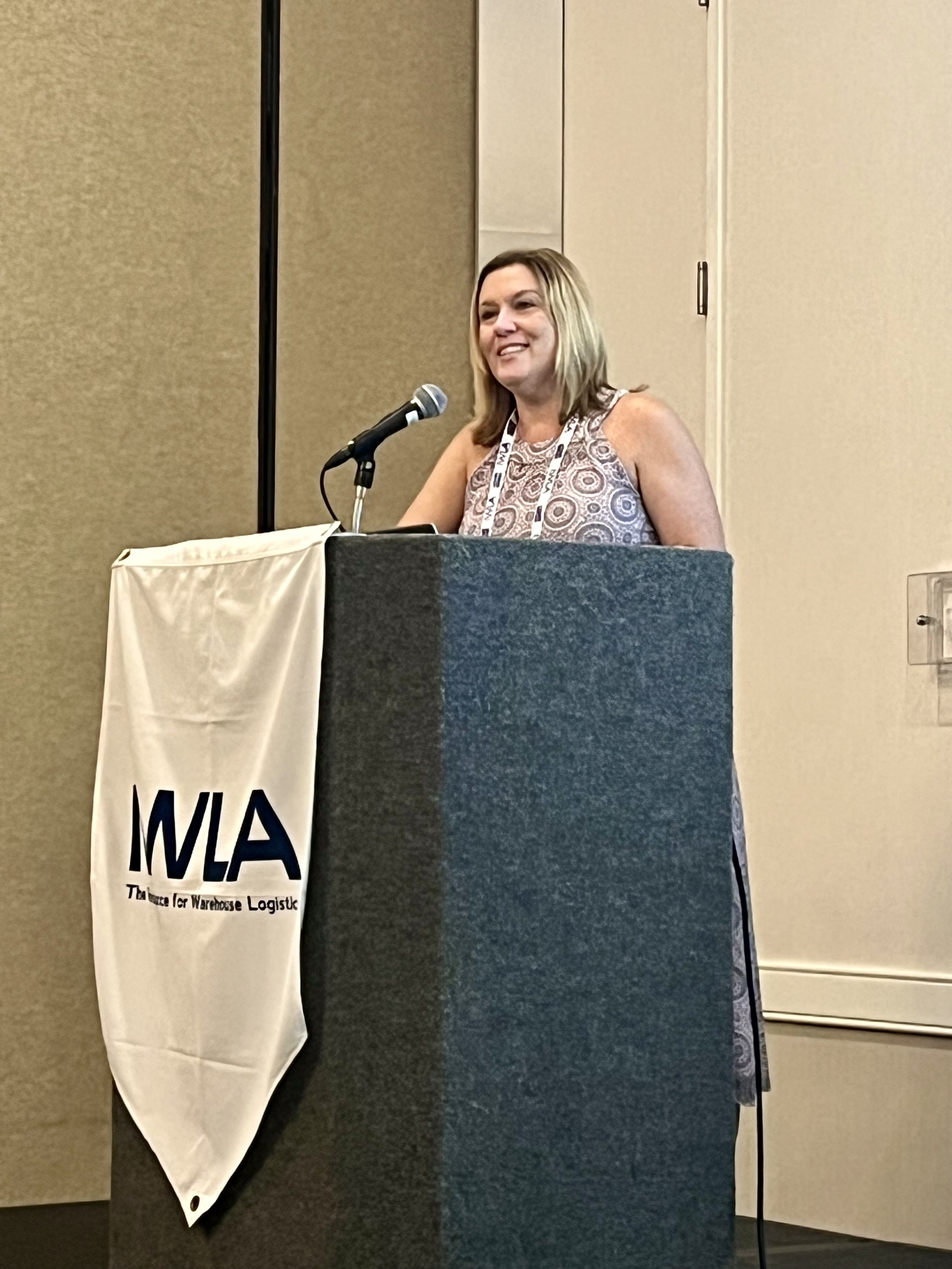
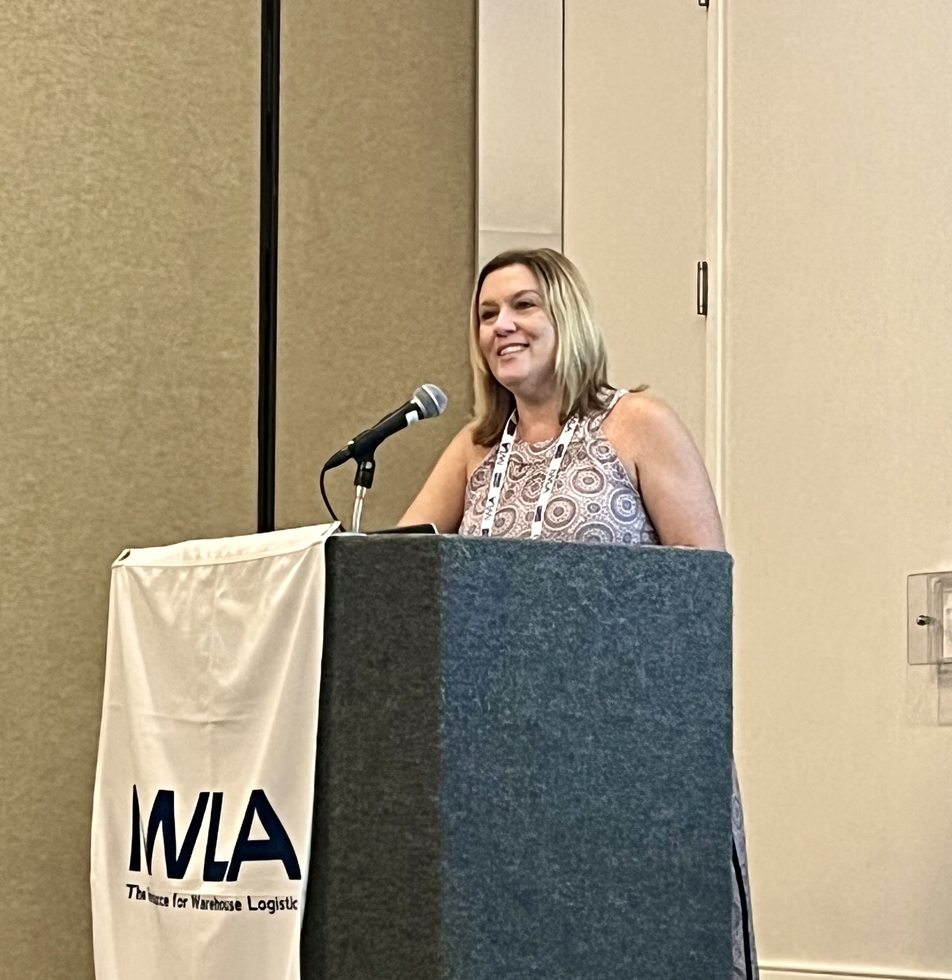
fixed image on mobile

diff --git a/src/components/layout/footer.jsx b/src/components/layout/footer.jsx
@@ -21,7 +21,7 @@ export default function Footer() {
 
       <div className="apex-footer-inner">
         <div className="apex-footer-top">
-          {/* BRAND */}
+   
           <div className="apex-footer-brandBlock">
             <NavLink to="/" className="apex-footer-brand" aria-label="APEX Home">
               <span className="apex-footer-brandRow">
